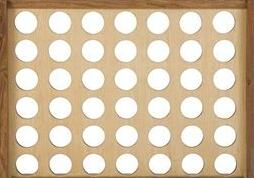
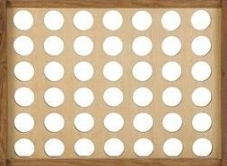
background mejorado

diff --git a/entregable-2/js/Game.js b/entregable-2/js/Game.js
@@ -67,6 +67,7 @@ class Game {
         //creo el tablero
         let slotImg = new Image();
         slotImg.onload = function() {
+                                    
             let bg = new Image();
             bg.onload = function() {
                 this.board = new Board(7, 6, slotImg, bg, this.canvas);
@@ -252,7 +253,6 @@ class Game {
                 
                 //si está dentro de una columna
                 if (inside) {
-                    
                     //según si es el pj 1 o 2 cambio
                     //el color y turno
                     if (this.turn == 1) {
@@ -261,7 +261,6 @@ class Game {
                     else {
                         this.putAndCheckWin(column-1, this.chip2Img, 1);
                     }
-                    
                 }
                 //si no la vuelvo a su posición original
                 else {

diff --git a/entregable-2/js/Board.js b/entregable-2/js/Board.js
@@ -31,7 +31,7 @@ class Board {
     }
 
     draw() {
-        this.context.drawImage(this.background, 370, 85, 615, 500);
+        this.context.drawImage(this.background, 370, 85, 615, 520);
 
         //dibujo los círculos/slots
         for (let i = 0; i < this.slots.length; i++) {
